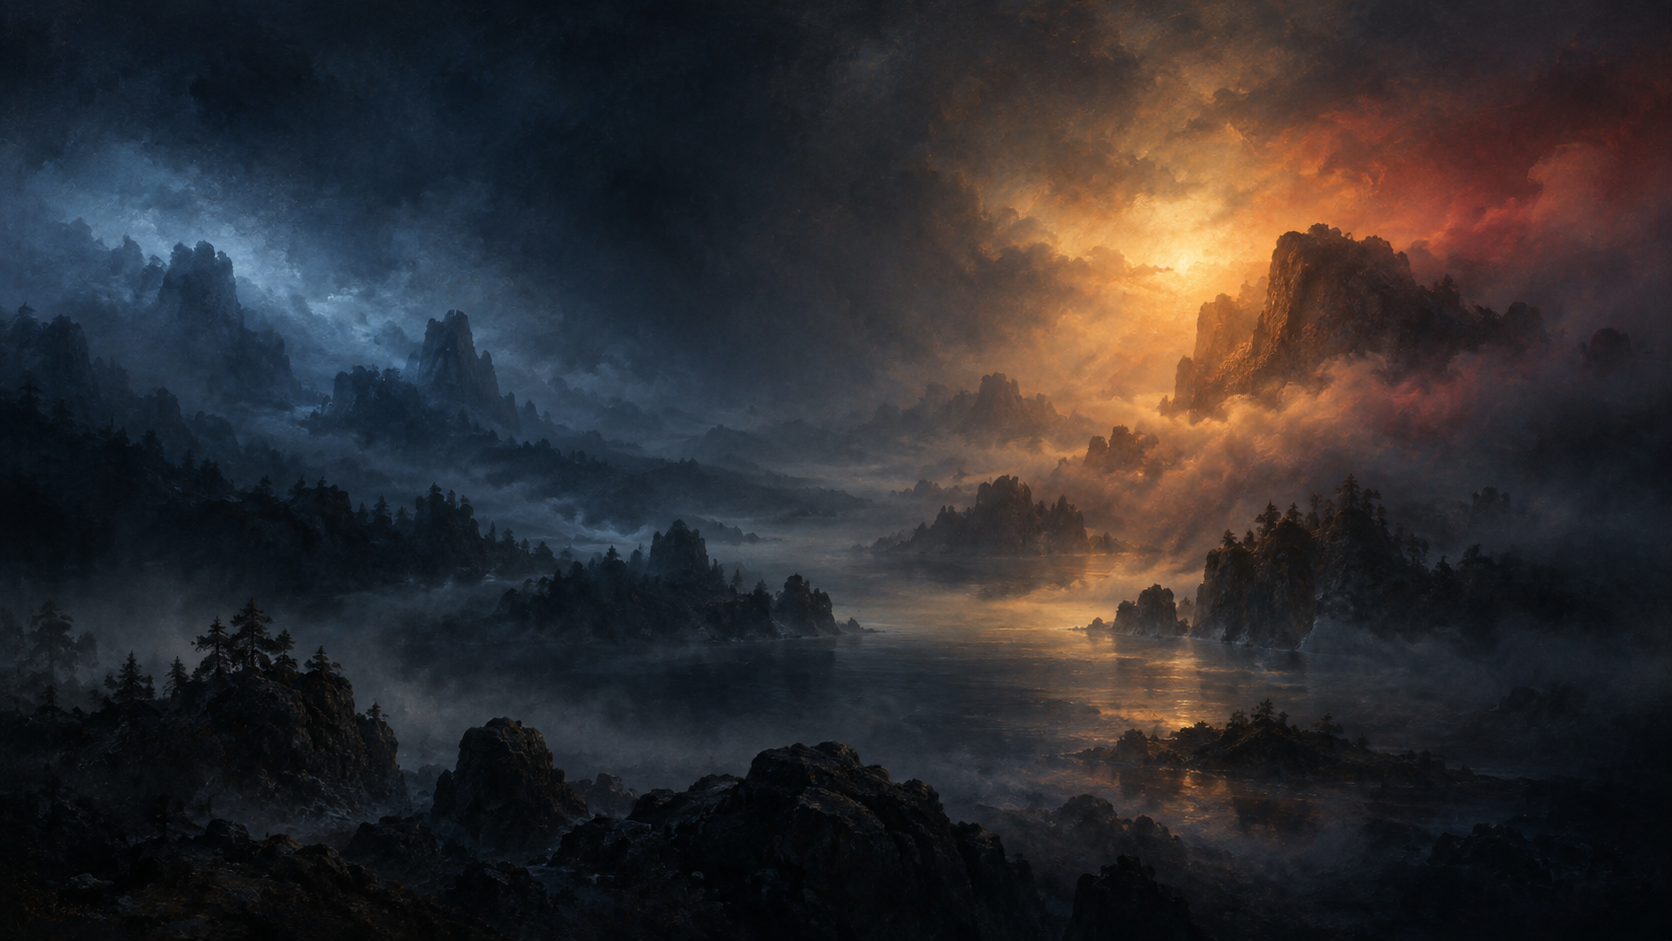
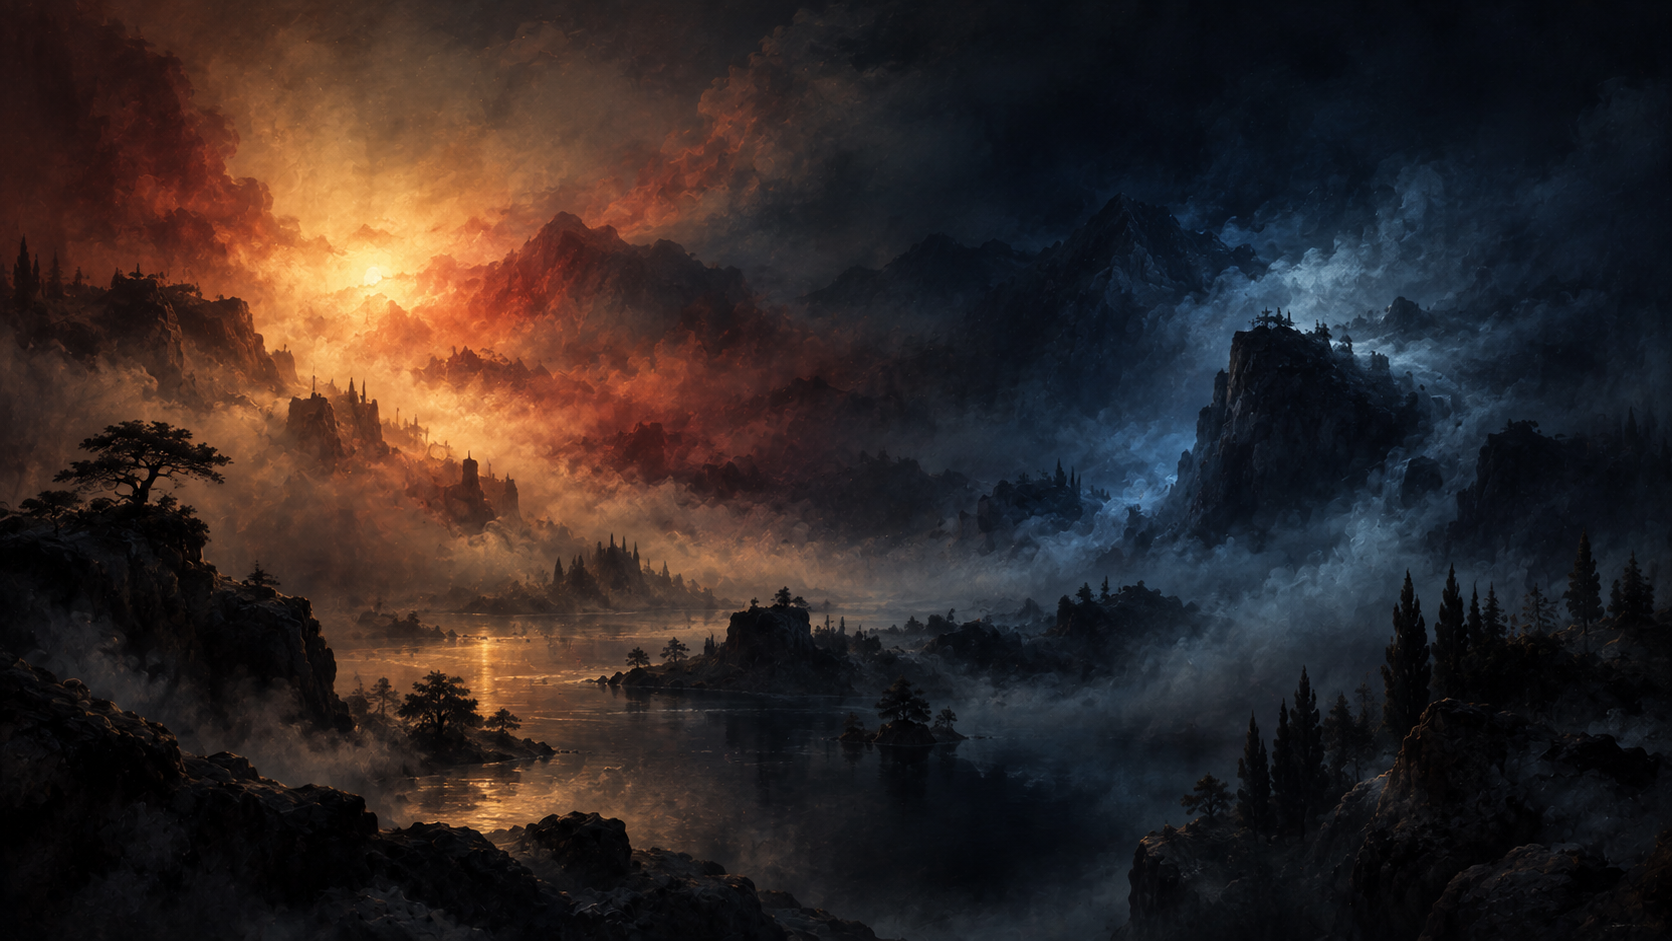
Regenerate the three wallpapers
New art from the recorded prompts, with the resolution request dropped: an
earlier round asked for "3840x2160" in the prompt text and came back at
1672x941 anyway, because the generator's output size is fixed. The prompts
in GENERATION.md are now the ones actually used.

The images are still 1672x941, so the 4K question is unresolved, but the new
set composes better for a wallpaper. Verified at both crops: Farbenkreis
keeps its figure, moon, full ring and far temple at 21:9 and 16:10, and
Kanten keeps the whole light band and both fringes. No lettering anywhere.

Worst-case overlay contrast, measured on the brightest region of each image:
lock text 8.61:1, 8.30:1 and 8.12:1, launcher text 13.42:1, 13.28:1 and
13.16:1, against a 4.5:1 requirement. Mean luminance stays under 0.06.

Farbenkreis gained a seated figure, ruins and a moon, so its one-line
description is updated in README and ASSETS.md.

diff --git a/GENERATION.md b/GENERATION.md
@@ -1,18 +1,18 @@
 # Wallpaper generation
 
-The wallpapers and the `docs/grenze.png` illustration are AI-generated artistic interpretations of the repository's Goethe-inspired design, not scientific diagrams. The three wallpapers were created with the built-in OpenAI image generation tool and their prompts are reproduced below. `docs/grenze.png` predates them and is preserved unchanged.
+The wallpapers and the `docs/grenze.png` illustration are AI-generated artistic interpretations of the repository's Goethe-inspired design, not scientific diagrams. The three wallpapers were created with the built-in OpenAI image generation tool and the prompts below are the ones actually used. An earlier round asked for "3840x2160" in the prompt text and was returned at 1672×941 regardless: the output size is fixed by the generator and cannot be prompted, so the prompts now ask for a 16:9 landscape and leave resolution out. `docs/grenze.png` predates them and is preserved unchanged.
 
 ## 01-farbenkreis.png
 
-Use case: stylized-concept. Create one premium 3840x2160 landscape desktop wallpaper for Farbenlehre, an Omarchy dark theme inspired by Goethe's Theory of Colours. Painterly Romantic atmosphere, layered mineral pigments, delicate grain, luminous restrained color emerging from blue-black #0f141c darkness. Rich crafted fine-art image, not a diagram or UI. Large calm dark areas, central subject safe for wide and tall crops. No text, letters, labels, logos, watermarks, borders, desktop windows. Farbenkreis / demanded colors: an ethereal circular formation of six translucent pigment veils, suspended over a dark still reflective surface. Opposing yellow and violet, orange and blue, purple-red and green engage across a quiet dark center. Incomplete organic arcs like mineral smoke and weathered fresco, a subtle warm golden thread connects opposing fields. Mostly dark, restrained brilliance, balanced contemplative composition. Avoid a flat segmented color-wheel chart, avoid rainbow neon.
+Use case: stylized-concept. Create one premium 16:9 landscape desktop wallpaper for Farbenlehre, an Omarchy dark theme inspired by Goethe's Theory of Colours. Painterly Romantic atmosphere, layered mineral pigments, delicate grain, luminous restrained color emerging from blue-black #0f141c darkness. Rich crafted fine-art image, not a diagram or UI. Large calm dark areas, central subject safe for wide and tall crops. No text, letters, labels, logos, watermarks, borders, desktop windows. Farbenkreis / demanded colors: an ethereal circular formation of six translucent pigment veils, suspended over a dark still reflective surface. Opposing yellow and violet, orange and blue, purple-red and green engage across a quiet dark center. Incomplete organic arcs like mineral smoke and weathered fresco, a subtle warm golden thread connects opposing fields. Mostly dark, restrained brilliance, balanced contemplative composition. Avoid a flat segmented color-wheel chart, avoid rainbow neon.
 
 ## 02-truebe.png
 
-Use case: stylized-concept. Create one premium 3840x2160 landscape desktop wallpaper for Farbenlehre, an Omarchy dark theme inspired by Goethe's Theory of Colours. Painterly Romantic atmosphere, layered mineral pigments, delicate grain, luminous restrained color emerging from blue-black #0f141c darkness. Rich crafted fine-art image, not a diagram or UI. Large calm dark areas, central subject safe for wide and tall crops. No text, letters, labels, logos, watermarks, borders, desktop windows. Trübe / turbid medium: an immense blue-black atmospheric landscape with layers of mist. A small warm light source seen through dense haze blooms from pale gold through amber into muted red, while cold illuminated haze on the other side makes darkness appear deep blue. Soft distant rocky forms almost dissolve into pigment. Warm and cool regions communicate through a quiet dark center. Painterly optical atmosphere, no literal sun disk, no sci-fi, no rainbow, no geometric diagram.
+Use case: stylized-concept. Create one premium 16:9 landscape desktop wallpaper for Farbenlehre, an Omarchy dark theme inspired by Goethe's Theory of Colours. Painterly Romantic atmosphere, layered mineral pigments, delicate grain, luminous restrained color emerging from blue-black #0f141c darkness. Rich crafted fine-art image, not a diagram or UI. Large calm dark areas, central subject safe for wide and tall crops. No text, letters, labels, logos, watermarks, borders, desktop windows. Trübe / turbid medium: an immense blue-black atmospheric landscape with layers of mist. A small warm light source seen through dense haze blooms from pale gold through amber into muted red, while cold illuminated haze on the other side makes darkness appear deep blue. Soft distant rocky forms almost dissolve into pigment. Warm and cool regions communicate through a quiet dark center. Painterly optical atmosphere, no literal sun disk, no sci-fi, no rainbow, no geometric diagram.
 
 ## 03-kanten.png
 
-Use case: stylized-concept. Create one premium 3840x2160 landscape desktop wallpaper for Farbenlehre, an Omarchy dark theme inspired by Goethe's Theory of Colours. Painterly Romantic atmosphere, layered mineral pigments, delicate grain, luminous restrained color emerging from blue-black #0f141c darkness. Rich crafted fine-art image, not a diagram or UI. Large calm dark areas, central subject safe for wide and tall crops. No text, letters, labels, logos, watermarks, borders, desktop windows. Kanten / edge colors: a monumental oblique slab of soft ivory light emerging from darkness like the opening between two ancient dark stone planes. Along one edge, extremely fine blue and violet fringes; along the opposite edge, gold and restrained orange-red fringes. Color exists at the meeting of light and shadow, fading into a nearly black blue mineral background. Cropped abstract architectural composition with the luminous opening small enough to leave most of the wallpaper dark. Subtle textured brushwork, photographic optical delicacy, no prism triangle, no rainbow beam.
+Use case: stylized-concept. Create one premium 16:9 landscape desktop wallpaper for Farbenlehre, an Omarchy dark theme inspired by Goethe's Theory of Colours. Painterly Romantic atmosphere, layered mineral pigments, delicate grain, luminous restrained color emerging from blue-black #0f141c darkness. Rich crafted fine-art image, not a diagram or UI. Large calm dark areas, central subject safe for wide and tall crops. No text, letters, labels, logos, watermarks, borders, desktop windows. Kanten / edge colors: a monumental oblique slab of soft ivory light emerging from darkness like the opening between two ancient dark stone planes. Along one edge, extremely fine blue and violet fringes; along the opposite edge, gold and restrained orange-red fringes. Color exists at the meeting of light and shadow, fading into a nearly black blue mineral background. Cropped abstract architectural composition with the luminous opening small enough to leave most of the wallpaper dark. Subtle textured brushwork, photographic optical delicacy, no prism triangle, no rainbow beam.
 
 ## docs/grenze.png
 

diff --git a/ASSETS.md b/ASSETS.md
@@ -6,7 +6,7 @@ The three wallpapers are AI-generated painterly interpretations of Goethe’s id
 
 | File | Idea |
 |---|---|
-| `01-farbenkreis.png` | Six pigment veils around a dark center, reflected in water |
+| `01-farbenkreis.png` | Six pigment veils circling a dark center over moonlit water, watched from the ruins by a seated figure |
 | `02-truebe.png` | Warm light and cool darkness seen through atmospheric haze |
 | `03-kanten.png` | Cool and warm fringes at the boundary between light and dark stone |
 
@@ -20,7 +20,7 @@ The checker uses black and white bounds instead of samples from the old artwork,
 
 ## Preview
 
-`preview.png` is a real 3840×2160 Omarchy desktop screenshot showing Bash, Neovim displaying colors.toml, btop CPU/memory graphs, the open Omarchy menu, the live bar and a smaller exposed area of the replacement Farbenkreis wallpaper. The demonstration editor uses an isolated configuration with colors from the theme; it does not represent the default Neovim setup. It was captured on 2026-09-17. The wallpaper is scaled by the desktop from its native 1672×941 image; the screenshot does not make the source artwork native 4K.
+`preview.png` is a real 3840×2160 Omarchy desktop screenshot showing Bash, Neovim displaying colors.toml, btop CPU/memory graphs, the open Omarchy menu, the live bar and a smaller exposed area of an earlier Farbenkreis wallpaper, since superseded. The demonstration editor uses an isolated configuration with colors from the theme; it does not represent the default Neovim setup. It was captured on 2026-09-17. The wallpaper is scaled by the desktop from its native 1672×941 image; the screenshot does not make the source artwork native 4K.
 
 ## License
 

diff --git a/README.md b/README.md
@@ -22,7 +22,7 @@ omarchy theme install https://github.com/thepixelgardener-create/omarchy-farbenl
 
 Three wallpapers interpreting Goethe’s ideas:
 
-1. **Farbenkreis:** Six pigment veils forming a luminous circle above dark water.
+1. **Farbenkreis:** Six pigment veils circling over moonlit water, watched from the ruins.
 2. **Trübe:** warm and cold light emerging through a misty landscape.
 3. **Kanten:** warm and cold fringes at a luminous opening between dark stone planes.
 
